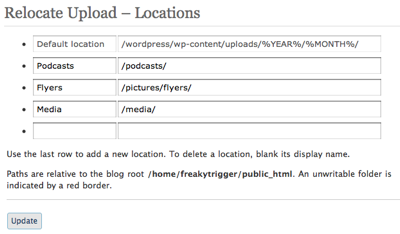
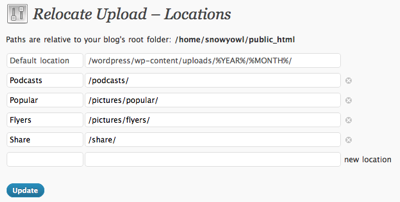
version 0.14
git-svn-id: https://plugins.svn.wordpress.org/relocate-upload/trunk@142130 b8457f37-d9ea-0310-8a92-e5e31aec5664

diff --git a/relocate-upload.php b/relocate-upload.php
@@ -4,7 +4,7 @@ Plugin Name: Relocate upload
 Plugin URI: http://freakytrigger.co.uk/wordpress-setup/
 Description: Moves uploads to special folders
 Author: Alan Trewartha
-Version: 0.13
+Version: 0.14
 Author URI: http://freakytrigger.co.uk/author/alan/
 */ 
 
@@ -46,8 +46,9 @@ if (isset($_GET['ru_folder']))
 	$new_path=replace_month_year($new_path,$attachment_date);
 
 	// attempt to move the file
-	$result="FAIL";
-	if (rename($attachment_path,$new_path))
+	if(file_exists($new_path))
+		$result="FAIL: move will overwrite an existing file";
+	else if (rename($attachment_path,$new_path))
 	{	$result="WAIT";
 		// move any thumbnails too
 		$pm=get_post_meta($id,"_wp_attachment_metadata", true);
@@ -86,17 +87,19 @@ function relocate_upload_js()
 		&& strpos($_SERVER['REQUEST_URI'], "/wp-admin/media.php")===false )
 		return;
 
+	wp_enqueue_script('jquery');
+	
 	// first the basic ajax for the relocating folder
 	?><script>	
 	function ru_request_move($element)
 	{	jQuery($element).attr({disabled: true});
 		jQuery($element).siblings("span").html(' Moving...');
 		jQuery.get(
-			"<? echo WP_CONTENT_URL."/plugins/relocate-upload/relocate-upload.php"; ?>",
+			"<?php echo WP_CONTENT_URL."/plugins/relocate-upload/relocate-upload.php"; ?>",
 			{	ru_folder: $element.selectedIndex,
 				       id: $element.getAttribute('media_id'),
-				 _wpnonce: '<? echo wp_create_nonce("ru_request_move") ?>',
-				  abspath: '<? echo ABSPATH ?>'
+				 _wpnonce: '<?php echo wp_create_nonce("ru_request_move") ?>',
+				  abspath: '<?php echo ABSPATH ?>'
 			},
 			function(data)
 			{	jQuery($element).attr({disabled: false});
@@ -107,18 +110,19 @@ function relocate_upload_js()
 					$m_item.find("tr.url input").val('');
 					$m_item.find("tr.url button:contains('File URL')").attr('title',data.substring(6));
 					$m_item.find("tr.url button:contains('Audio Player')").attr('title','[audio:'+data.substring(6)+']');
+					$m_item.find("tr.image_url input").val(data.substring(6));
 				}
 				else if (data=='')
 					jQuery($element).siblings("span").html(' Error');
 				else
-					jQuery($element).siblings("span").html(' Failed');
+					jQuery($element).siblings("span").html(' ' + data);
 			}
 		);
 	}
-	<?
+	<?php
 
 	
-	// smuggle the menu into place with JS - no proper hook to get it in place
+	// smuggle the filter menu into place with JS - no proper hook to get it in place
 	// compile the HTML
 	if(!$ru_folders = get_option('relocate-upload-folders')) $ru_folders = array();
 	$i=0;
@@ -129,9 +133,9 @@ function relocate_upload_js()
 	}
 
 	// get it in place
-	?>	jQuery(document).ready(function() { jQuery("select[name='m']").after("<select name='ru_index'><? echo $menu ?></select>");})
+	?>	jQuery(document).ready(function() { jQuery("select[name='m']").after("<select name='ru_index'><?php echo $menu ?></select>");})
 		</script>
-	<?
+	<?php
 }
 
 
@@ -148,9 +152,10 @@ function relocate_upload_library_filter($where)
 		
 	if ( strpos($_SERVER['REQUEST_URI'], "/wp-admin/media-upload.php") && ($_GET['tab']!="library"))
 		return $where;
-	
+
+	global $wpdb;
 	if(!$ru_folders = get_option('relocate-upload-folders')) $ru_folders = array();
-	$where.=" AND wp_posts.guid LIKE '%".($ru_folders[$_GET['ru_index']]['path'])."%'";
+	$where.=" AND $wpdb->posts.guid LIKE '%".($ru_folders[$_GET['ru_index']]['path'])."%'";
 	return $where;
 }
 
@@ -202,7 +207,11 @@ function RU_admin_options()
 	{	// generate ru_folders array
 		for($i=0; $i<count($_POST['ru_folder_name']); $i++)
 			if ($_POST['ru_folder_name'][$i] !="")
-				$ru_folders[]=array('name' => $_POST['ru_folder_name'][$i], 'path' => $_POST['ru_folder_path'][$i]);
+			{	$this_path=$_POST['ru_folder_path'][$i];
+				$this_path.=(substr($this_path, -1)!="/")?"/":"";
+				if (substr($this_path, 0,1)!="/")	$this_path="/".$this_path;
+				$ru_folders[]=array('name' => $_POST['ru_folder_name'][$i], 'path' => $this_path);
+			}
 
 		// save it as a WP option
 		update_option('relocate-upload-folders', $ru_folders);
@@ -223,34 +232,42 @@ function RU_admin_options()
 		
 	?>
 	<style>
-		li input {width:120px;}
-		li input + input {width:400px}
-		li.bad_folder input {border: 1px solid red;}
+		#ru_list li input {width:120px;}
+		#ru_list li input + input {width:400px}
+		#ru_list li.bad_folder input {border: 1px solid red;}
+		#ru_list li.bad_folder:after {content:" unwritable"}
+		#ru_list span.remove { margin-left:6px; display:inline-block; width: 10px; background: url('/wordpress/wp-admin/images/xit.gif') no-repeat center left; }
+		#ru_list span.remove:hover {background-position: center right; cursor:pointer}
 	</style>
-	<div class="wrap">   
+	<div class="wrap">
+	<div id="icon-options-general" class="icon32"><br /></div>
 	<h2>Relocate Upload &ndash; Locations</h2>
 	<form action="options-general.php?page=relocate-upload/relocate-upload.php" method="POST">
 	<div>
-		<ul>
-	<?
+		<p>Paths are relative to your blog's root folder: <b><?php echo SERVER_DOC_ROOT; ?></b></p>
+		<ul id="ru_list">
+	<?php
 		$disabled="disabled=true";
 		foreach($ru_folders as $ru_folder)
 		{	$bad_folder=($disabled=="" && $ru_folder['path'] && !is_writable(SERVER_DOC_ROOT.replace_month_year($ru_folder['path'],date("Y-m"))))?" class='bad_folder'":"";
 			echo "<li $bad_folder >";
 				echo "<input name='ru_folder_name[]' type='text' value='".$ru_folder['name']."' ".$disabled." />";
 				echo "<input name='ru_folder_path[]' type='text' value='".$ru_folder['path']."' ".$disabled." />";
-			echo"</li>";
+				if ($disabled=="" && $ru_folder['path'])
+					echo "<span class='remove' title='remove'>&nbsp;</span>";
+				if ($ru_folder['path']=="") echo " new location";
+			echo "</li>";
 			$disabled="";
 		}
 
 	?>
 		</ul>
-		<p>Use the last row to add a new location. To delete a location, blank its display name.</p>
-		<p>Paths are relative to the blog root <b><? echo SERVER_DOC_ROOT; ?></b>. An unwritable folder is indicated by a red border.</p>
-		<p class="submit"><input type="Submit" value="Update" /></p>
+		<p class="submit"><input type="Submit" value="Update" class="button-primary" /></p>
 	</div>
 	</form>
-	<?
+	<script>jQuery("#ru_list span.remove").click(function(){	jQuery(this).parent().remove();	});</script>
+	<?php
+
 }
 
 
